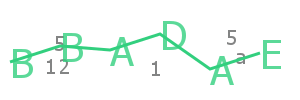
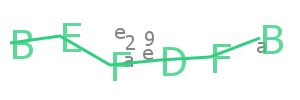
removed canvas-constructor from dependencies

Changed region(s): [[0.03, 0.21, 0.96, 0.87]]

diff --git a/src/main.js b/src/main.js
@@ -1,4 +1,3 @@
-const { Canvas, resolveImage } = require("canvas-constructor");
 const crypto = require('crypto');
 const merge = require("deepmerge");
 const { 
@@ -9,6 +8,7 @@ const {
     defaultDecoyOptions,
     SetCaptchaOptions,
 } = require("./constants");
+const { createCanvas, loadImage } = require("canvas");
 function getRandom(n) {
     return Math.floor(Math.random()*(n - 60)) + 30
 }
@@ -54,7 +54,11 @@ class CaptchaGenerator {
          * @private
          */
         this.decoy = defaultDecoyOptions;
-
+        /**
+         * Captch text randomly created here.
+         * @type {string}
+         * @private
+         */
         this.captcha.text = crypto.randomBytes(32).toString("hex").toUpperCase().replace(/[^a-z]/gi, "")
         .substr(0, this.captcha.characters);
     }
@@ -156,11 +160,15 @@ class CaptchaGenerator {
      * fs.writeFileSync("image.png", buffer)
      */
     async generate() {
-        const canvas = new Canvas(this.width, this.height)
-        .setTextBaseline("middle")
-        .setLineJoin("miter")
-        let coordinates = []
-        //get coordinates for captcha characters and trace line
+        /*Create canvas element from createCanvas function*/
+        const canvas = createCanvas(this.width, this.height);
+        const ctx = canvas.getContext("2d");
+        /*Set line join and text base line here.*/
+        ctx.lineJoin = "miter";
+        ctx.textBaseline = "middle";
+        /*Get coordinates values for captcha text and lines*/
+        let coordinates = [];
+        /*get coordinates for captcha characters and trace line*/
         for (let i = 0; i < this.captcha.characters; i++) {
             const widhtGap = Math.floor(this.width/(this.captcha.characters));
             let coordinate = [];
@@ -168,45 +176,47 @@ class CaptchaGenerator {
             coordinate.push(randomWidth);
             let randomHeight = getRandom(this.height);
             coordinate.push(randomHeight);
-            coordinates.push(coordinate)
+            coordinates.push(coordinate);
         }
         coordinates = coordinates.sort((a, b) => a[0] - b[0]);
-        
-        //first we will try to print background image if available
+        /*Adding background in captcha*/
         if(this.background) {
-            const background = await resolveImage(this.background);
-            canvas.printImage(background, 0, 0, this.width, this.height);
+            const background = await loadImage(this.background);
+            ctx.drawImage(background, 0, 0, this.width, this.height);
         }
-        //now check for decoy status
-        if(this.decoy.opacity > 0) {
+        /*Add decoy text in captcha*/
+        if(this.decoy.opacity) {
             const decoyTextCount = Math.floor(this.height*this.width/10000);
             const decoyText = crypto.randomBytes(decoyTextCount).toString('hex').split('');
-            canvas.setTextFont(`${this.decoy.size}px ${this.decoy.font}`)
-            .setGlobalAlpha(this.decoy.opacity)
-            .setColor(this.decoy.color)
+            ctx.font = `${this.decoy.size}px ${this.decoy.font}`;
+            ctx.globalAlpha = this.decoy.opacity;
+            ctx.fillStyle = this.decoy.color;
             for(let i = 0; i < decoyText.length; i++) {
-                canvas.printText(decoyText[i], getRandom(this.width), getRandom(this.height))
+                ctx.fillText(decoyText[i], getRandom(this.width), getRandom(this.height))
             }
         }
-        if(this.trace.opacity > 0) {
-            canvas.setStroke(this.trace.color)
-            .setGlobalAlpha(this.trace.opacity)
-            .beginPath().moveTo(coordinates[0][0], coordinates[0][1])
-            .setStrokeWidth(this.trace.size)
+        /*Add trace line*/
+        if(this.trace.opacity) {
+            ctx.strokeStyle = this.trace.color;
+            ctx.globalAlpha = this.trace.opacity;
+            ctx.beginPath();
+            ctx.moveTo(coordinates[0][0], coordinates[0][1]);
+            ctx.lineWidth = this.trace.size;
             for(let i = 1; i < coordinates.length; i++) {
-                canvas
-                .lineTo(coordinates[i][0], coordinates[i][1])
+                ctx.lineTo(coordinates[i][0], coordinates[i][1]);
             }
-            canvas.stroke()
+            ctx.stroke();
         }
-        if(this.captcha.opacity > 0) {
-            canvas.setTextFont(`${this.captcha.size}px ${this.captcha.font}`)
-            .setGlobalAlpha(this.captcha.opacity)
-            .setColor(this.captcha.color)
+        /*Add captcha text*/
+        if(this.captcha.opacity) {
+            ctx.font = `${this.captcha.size}px ${this.captcha.font}`;
+            ctx.globalAlpha = this.captcha.opacity;
+            ctx.fillStyle = this.captcha.color;
             for(let n = 0; n < coordinates.length; n++) {
-                canvas.printText(this.captcha.text[n], coordinates[n][0], coordinates[n][1])
+                ctx.fillText(this.captcha.text[n], coordinates[n][0], coordinates[n][1]);
             }
         }
+        /*Return buffer*/
         return canvas.toBuffer();
     }
 }

diff --git a/test.js b/test.js
@@ -3,6 +3,6 @@ const fs = require('fs');
 
 const captcha = new CaptchaGenerator()
 new Promise(async (resolve, reject) => {
-    fs.writeFileSync(`./assets/captcha/default.png`, await captcha.generate())
+    fs.writeFileSync(`./assets/captcha/default.png`, await captcha.create())
 })
 //fs.writeFileSync('./assets/captcha/default.gif', captcha.createGif())
